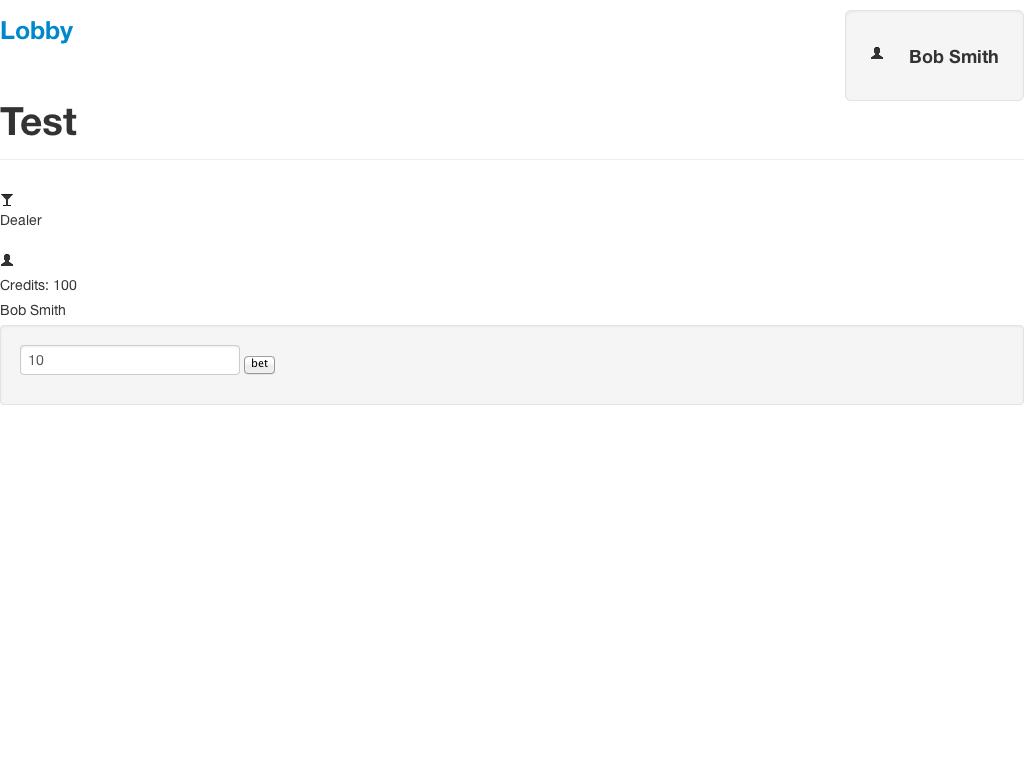
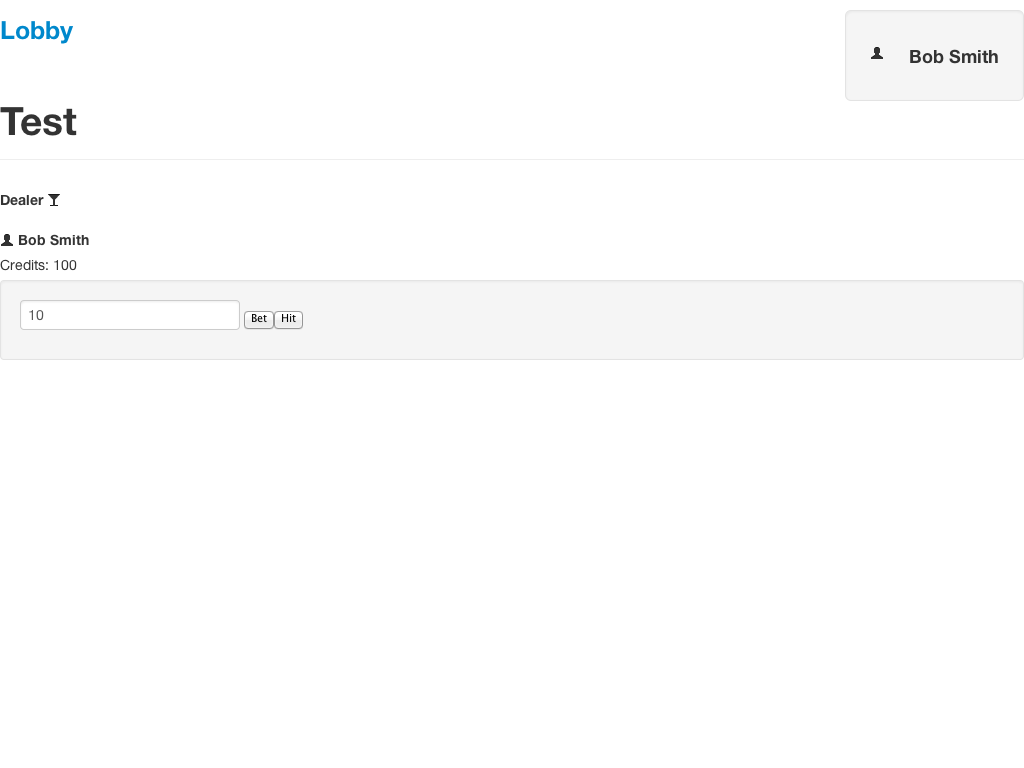
Finshed up hit feature for player.

Changed region(s): [[0.0, 0.25, 0.0938, 0.4688], [0.2188, 0.4688, 0.2812, 0.5], [0.2188, 0.4062, 0.2812, 0.4375]]

diff --git a/app/assets/javascripts/gameView.js b/app/assets/javascripts/gameView.js
@@ -40,6 +40,9 @@ blackjack.GameView = Backbone.View.extend({
   },
 
   hitButtonFunction: function() {
-    this.games.gameHit({success:this.render()});
+    var that = this;
+    this.games.gameHit(function() {
+                      that.render();
+    });
   }
 });

diff --git a/spec/controllers/hit_controller_spec.rb b/spec/controllers/hit_controller_spec.rb
@@ -1,0 +1,33 @@
+require 'spec_helper'
+require 'mocha/setup'
+
+describe Api::HitController do
+  describe "#post" do
+    before do
+      @game = Fabricate(:game_list)
+    end
+
+    it "has a status code 200 for a game that exists" do
+      response.status.should equal(200)
+    end
+
+    it "has a dealer object" do
+      subject.dealer.should be
+    end
+
+    it "renders the game_id" do
+      subject.dealer = stub('Dealer', :deal_player_card => nil, :deal_dealer_card =>nil)
+
+      post :create, :game_id => @game.id
+      response.status.should equal(200)
+    end
+
+    it "the dealer deals a new card for the player" do
+      dealerMock = mock()
+      dealerMock.expects(:deal_player_card).returns(true).once
+      subject.dealer = dealerMock
+
+      post :create, :game_id => @game.id
+    end
+  end
+end

diff --git a/features/step_definitions/game_page_steps.rb b/features/step_definitions/game_page_steps.rb
@@ -27,7 +27,7 @@ When (/^I make a bet of (\d+)$/) do |arg1|
 end
 
 When (/^I hit the bet button$/) do
-  click_button "bet"
+  click_button "Bet"
 end
 
 Then(/^take a screenshot$/) do
@@ -68,4 +68,19 @@ Then(/^I should see 2 player cards and 2 dealer cards$/) do
   page.should have_content(@card3.faceValue)
   page.should have_content(@card4.suit)
   page.should have_content(@card4.faceValue)
+end
+
+Given (/^I have already placed a bet$/) do
+  step "I have 100 credits"
+  step "I make a bet of 10"
+  step "I hit the bet button"
+  @card5 = Fabricate(:card)
+end
+
+When (/^I hit the Hit button$/) do
+  click_button "Hit"
+end
+
+Then (/^I should see 3 player cards and 2 dealer cards$/) do
+  page.should have_content(@card5.suit)
 end

diff --git a/app/controllers/api/hit_controller.rb b/app/controllers/api/hit_controller.rb
@@ -1,0 +1,11 @@
+class Api::HitController < ApplicationController
+  attr_accessor :dealer
+  def initialize
+    @dealer = Dealer.new
+  end
+
+  def create
+    dealer.deal_player_card(params[:game_id])
+    render :json => {}
+  end
+end

diff --git a/config/routes.rb b/config/routes.rb
@@ -9,6 +9,7 @@ Blackjack::Application.routes.draw do
   namespace :api do
     resources :game do
       resources :bet
+      resources :hit
       resources :player_cards
       resources :dealer_cards
     end
